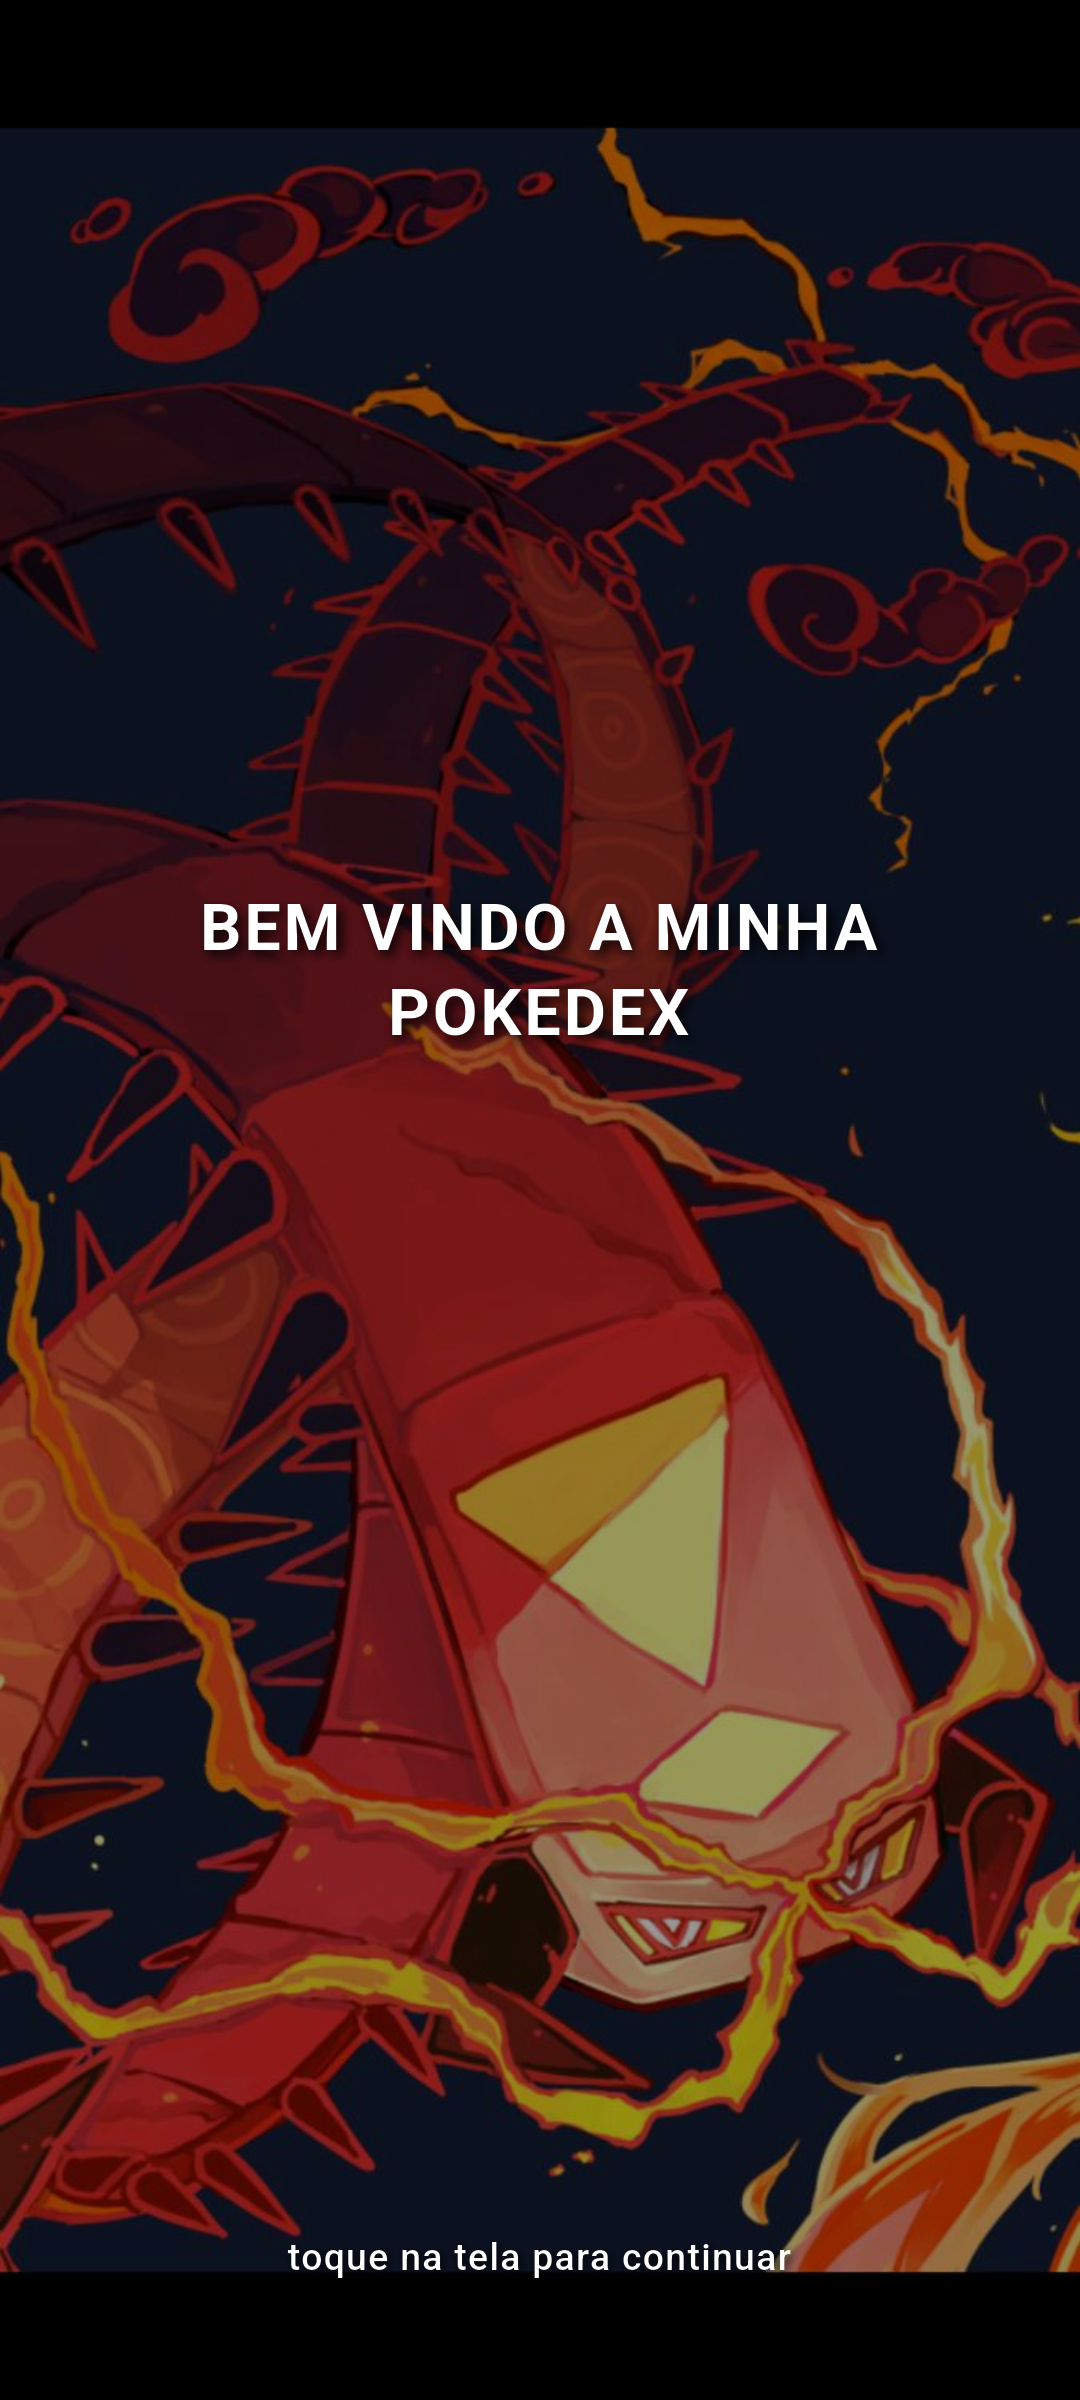
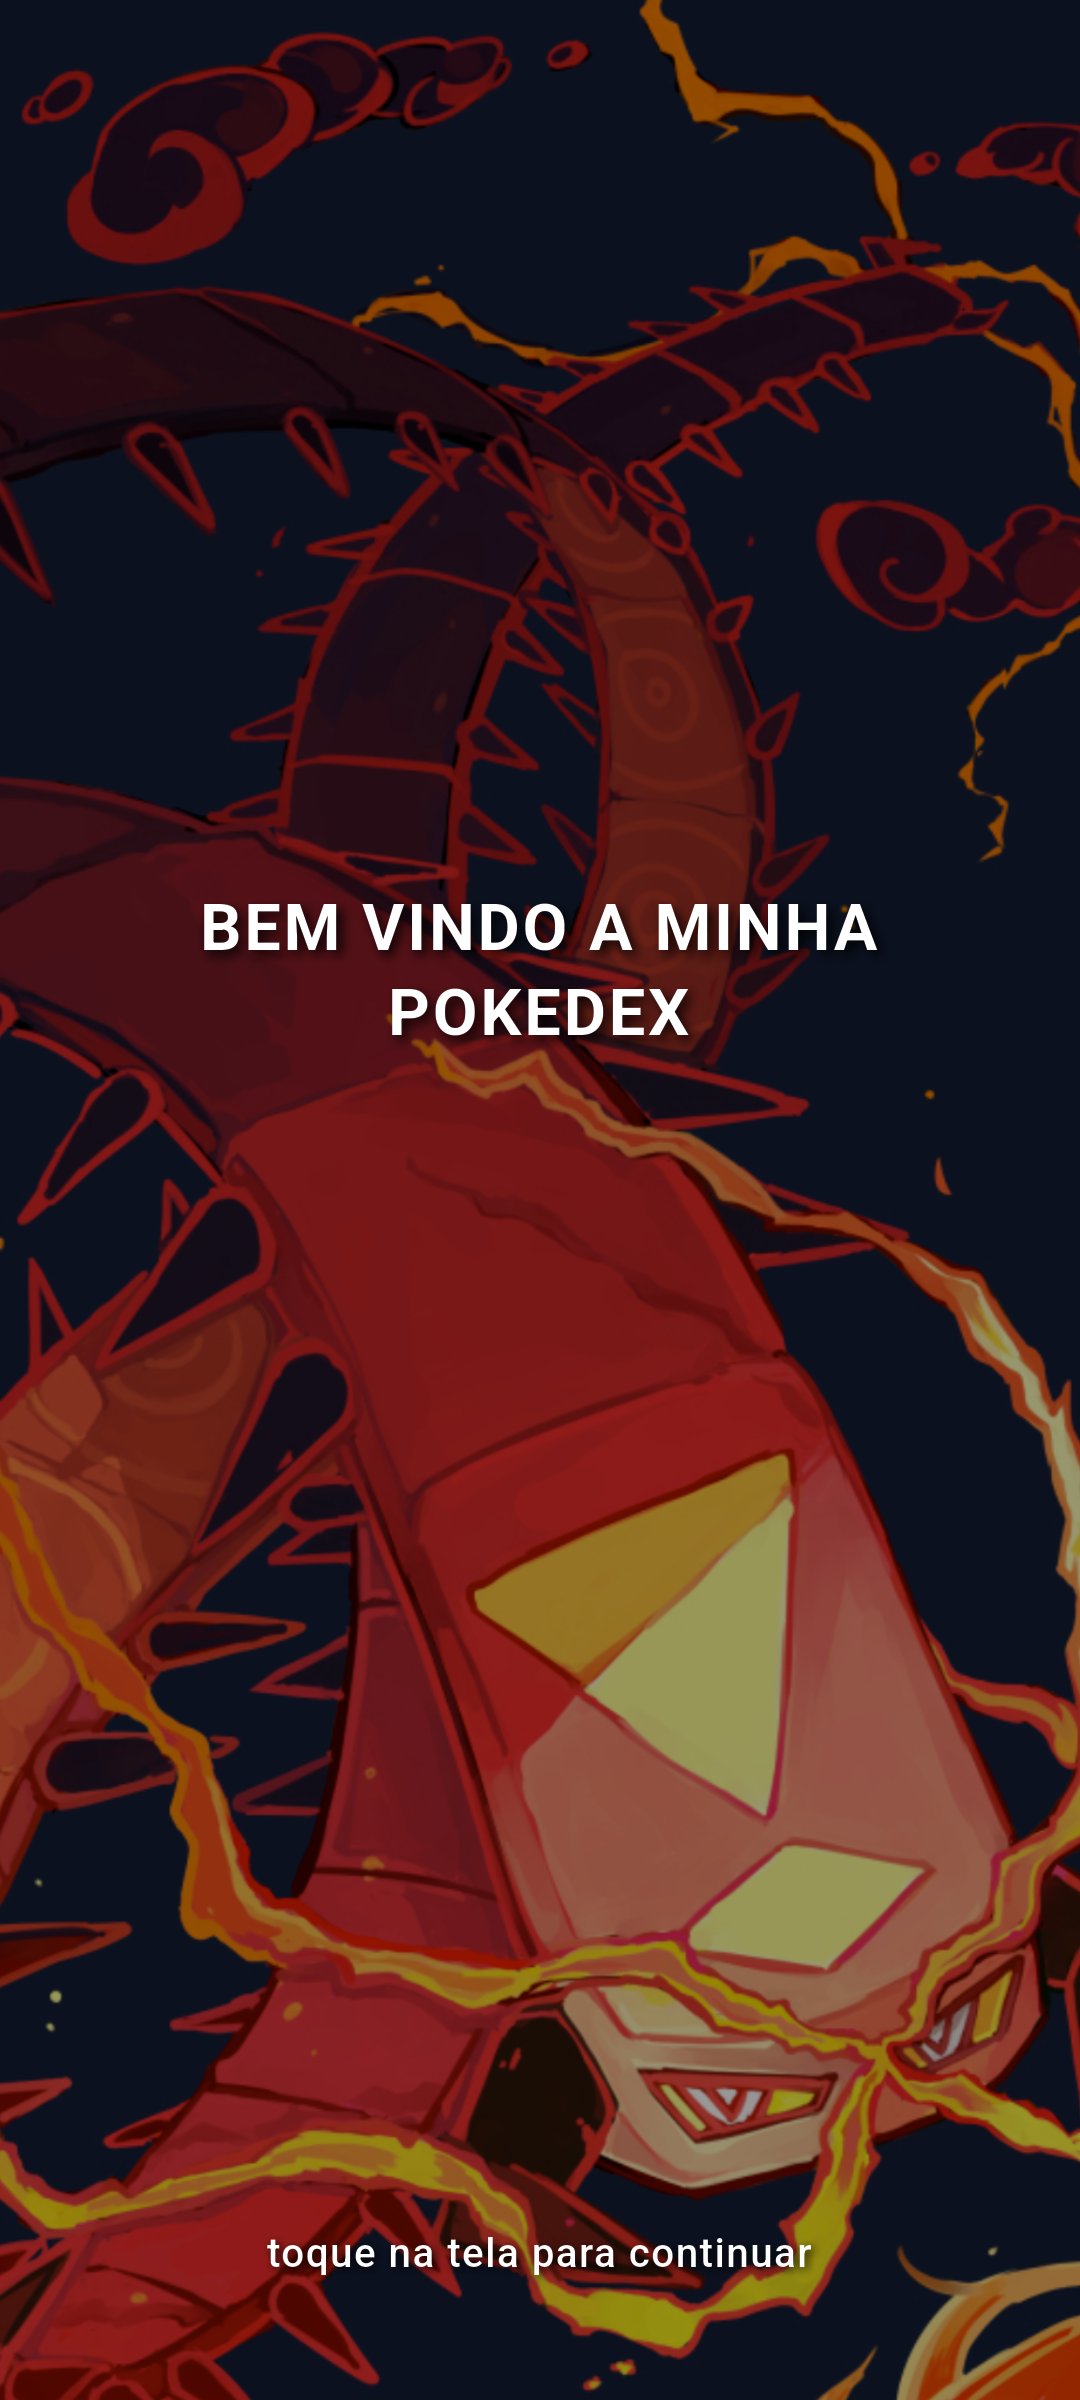
feat: atualizção de screenshot

diff --git a/lib/pages/welcome_page.dart b/lib/pages/welcome_page.dart
@@ -74,7 +74,7 @@ class _WelcomePageState extends State<WelcomePage>
           children: [
             // Imagem de fundo
             Image.asset(
-              'assets/back/image.jpg',
+              'assets/back/image.png',
               fit: BoxFit.cover,
             ),
 
